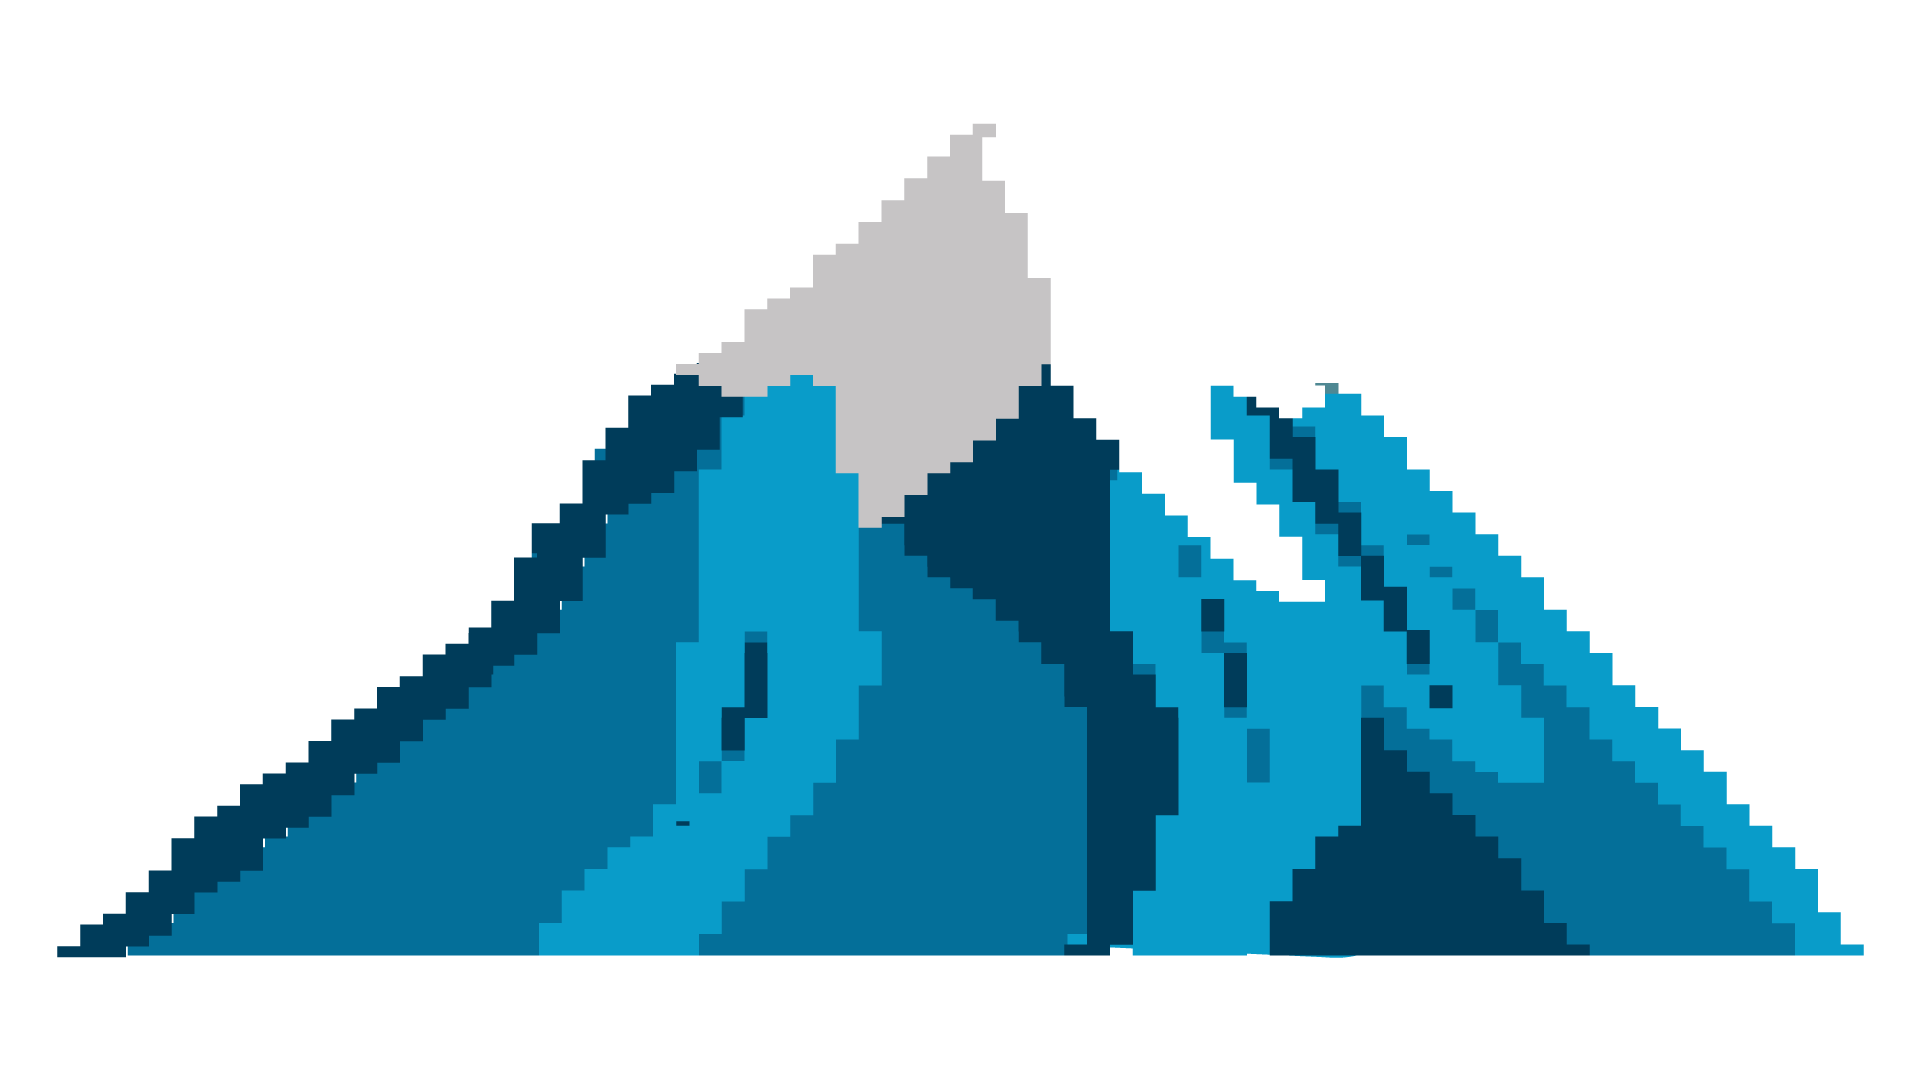
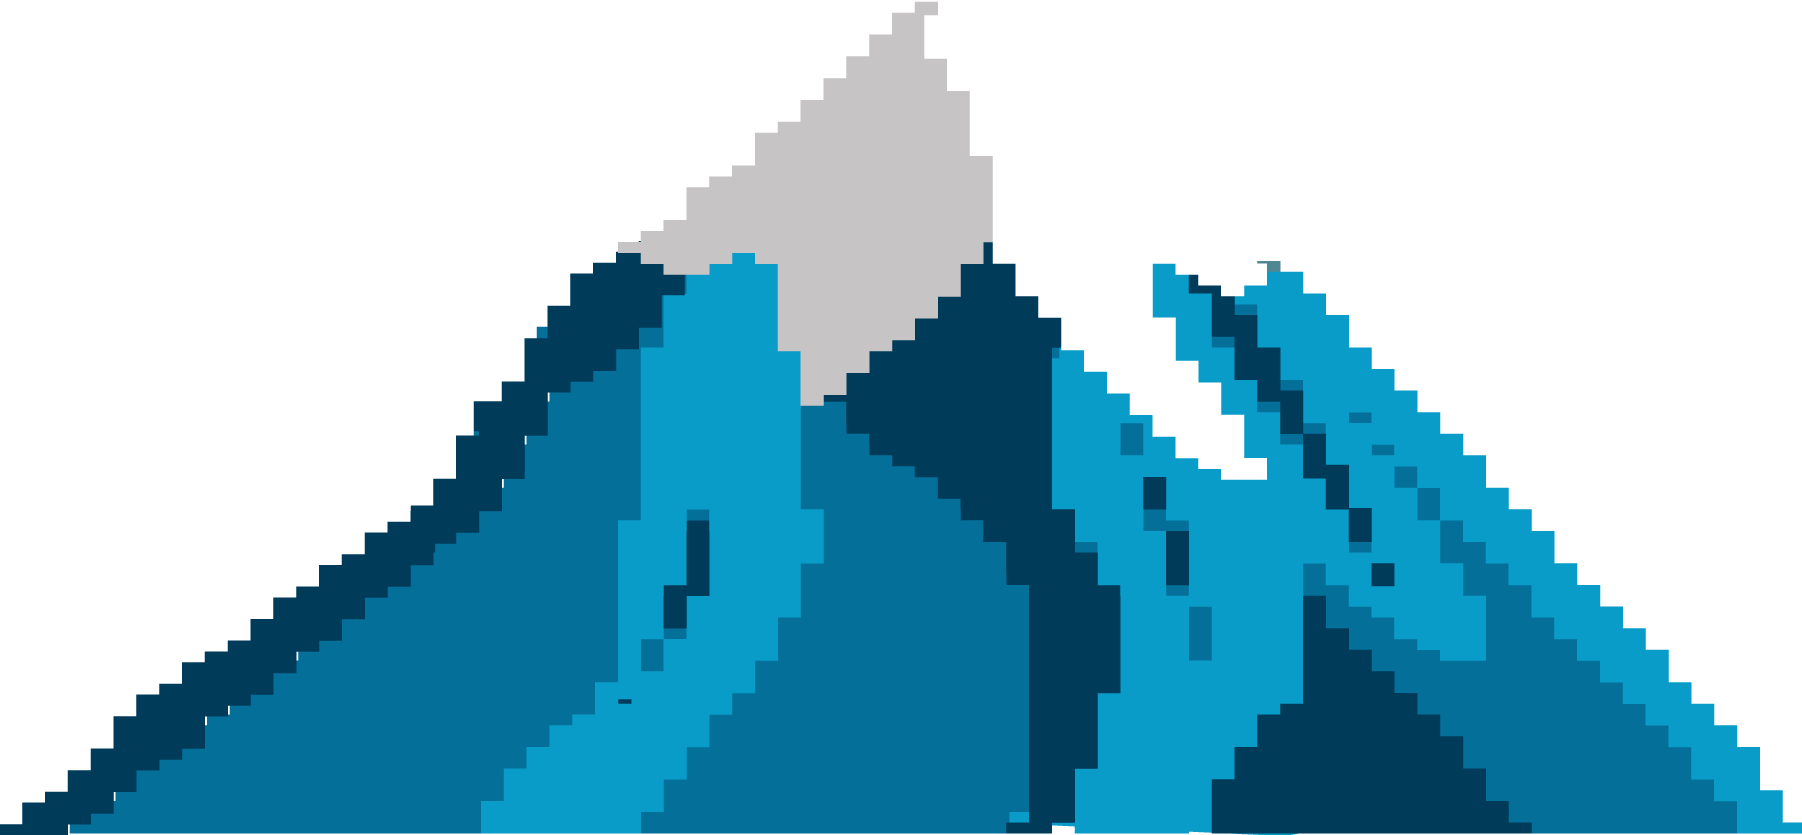
Some background

Changed region(s): [[0.0, 0.0, 1.0, 1.0], [0.4661, 0.4982, 0.5283, 0.5916]]

diff --git a/src/components/Game.jsx b/src/components/Game.jsx
@@ -10,6 +10,9 @@ import DaveoLogo from './DaveoLogo';
 import Stage from './Stage';
 import Obstacle from './Obstacle';
 import StartButton from './StartButton';
+import Mountain from './Mountain';
+import Cloud from './Cloud';
+import Rock from './Rock';
 
 import { addObstacle } from '../slices/obstacleSlice';
 import { reset } from '../slices/gameSlice';
@@ -116,7 +119,15 @@ function Game() {
     >
       <BackgroundContainer />
       <Container>
-        <DaveoLogo />
+        <Cloud x={width * 0.5} y={height * 0.5} scale={0.4} />
+        <Mountain x={0.9 * width} y={height - 170} scale={0.65} />
+        <Mountain x={width} y={height - 170} scale={0.4} />
+        <Rock x={width} y={height - 170} scale={0.5} />
+      </Container>
+      <Container>
+        <DaveoLogo x={0.1 * width} y={0.2 * height} scale={0.1} />
+        <DaveoLogo x={0.2 * width} y={0.62 * height} scale={0.1} />
+        <DaveoLogo x={0.82 * width} y={0.62 * height} scale={0.1} />
       </Container>
       <Container>
         <Bird />

diff --git a/src/components/Mountain.jsx b/src/components/Mountain.jsx
@@ -1,15 +1,17 @@
 import React from 'react';
+
 import { Sprite } from '@inlet/react-pixi';
 import PropTypes from 'prop-types';
-import daveoImage from '../images/daveo.png';
 
-export default function DaveoLogo({ x, y, scale }) {
+import mountainImage from '../images/mountain.png';
+
+export default function Mountain({ x, y, scale }) {
   return (
-    <Sprite image={daveoImage} scale={scale} x={x} y={y} anchor={0.5} />
+    <Sprite image={mountainImage} scale={scale} x={x} y={y} anchor={(0.5, 1)} />
   );
 }
 
-DaveoLogo.propTypes = {
+Mountain.propTypes = {
   x: PropTypes.number.isRequired,
   y: PropTypes.number.isRequired,
   scale: PropTypes.number.isRequired,

diff --git a/src/components/Cloud.jsx b/src/components/Cloud.jsx
@@ -1,15 +1,17 @@
 import React from 'react';
+
 import { Sprite } from '@inlet/react-pixi';
 import PropTypes from 'prop-types';
-import daveoImage from '../images/daveo.png';
 
-export default function DaveoLogo({ x, y, scale }) {
+import cloudImage from '../images/clouds.png';
+
+export default function Cloud({ x, y, scale }) {
   return (
-    <Sprite image={daveoImage} scale={scale} x={x} y={y} anchor={0.5} />
+    <Sprite image={cloudImage} scale={scale} x={x} y={y} anchor={(0.5, 1)} />
   );
 }
 
-DaveoLogo.propTypes = {
+Cloud.propTypes = {
   x: PropTypes.number.isRequired,
   y: PropTypes.number.isRequired,
   scale: PropTypes.number.isRequired,

diff --git a/src/components/Rock.jsx b/src/components/Rock.jsx
@@ -1,15 +1,17 @@
 import React from 'react';
+
 import { Sprite } from '@inlet/react-pixi';
 import PropTypes from 'prop-types';
-import daveoImage from '../images/daveo.png';
 
-export default function DaveoLogo({ x, y, scale }) {
+import rockImage from '../images/rocks.png';
+
+export default function Rock({ x, y, scale }) {
   return (
-    <Sprite image={daveoImage} scale={scale} x={x} y={y} anchor={0.5} />
+    <Sprite image={rockImage} scale={scale} x={x} y={y} anchor={(0.5, 1)} />
   );
 }
 
-DaveoLogo.propTypes = {
+Rock.propTypes = {
   x: PropTypes.number.isRequired,
   y: PropTypes.number.isRequired,
   scale: PropTypes.number.isRequired,
